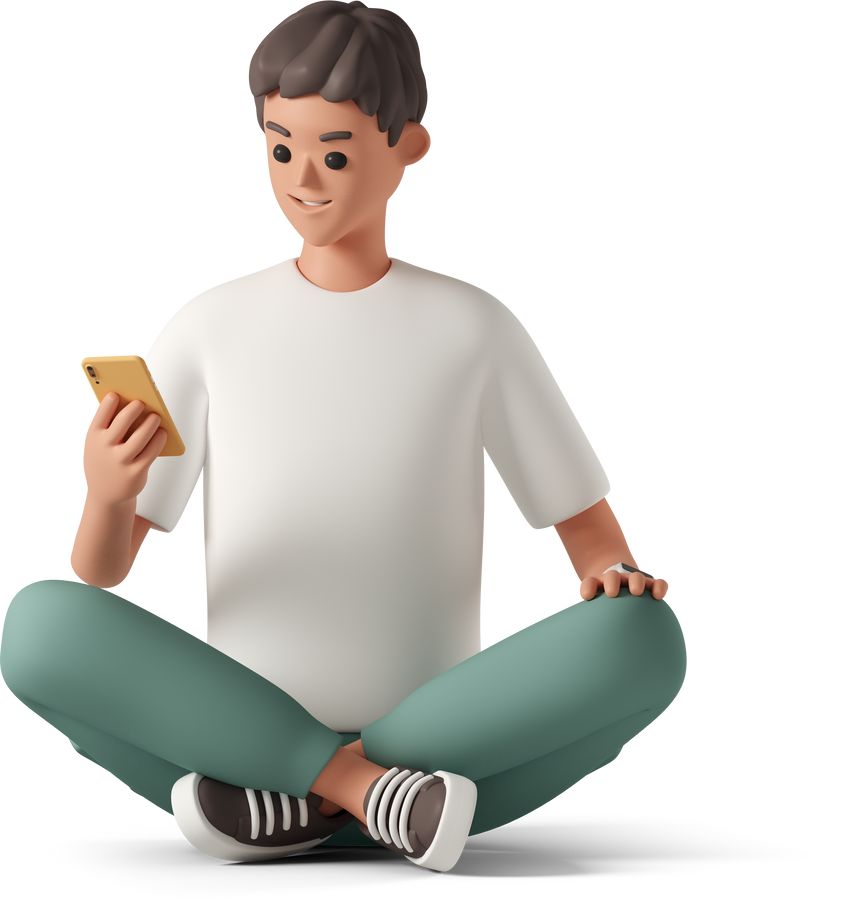
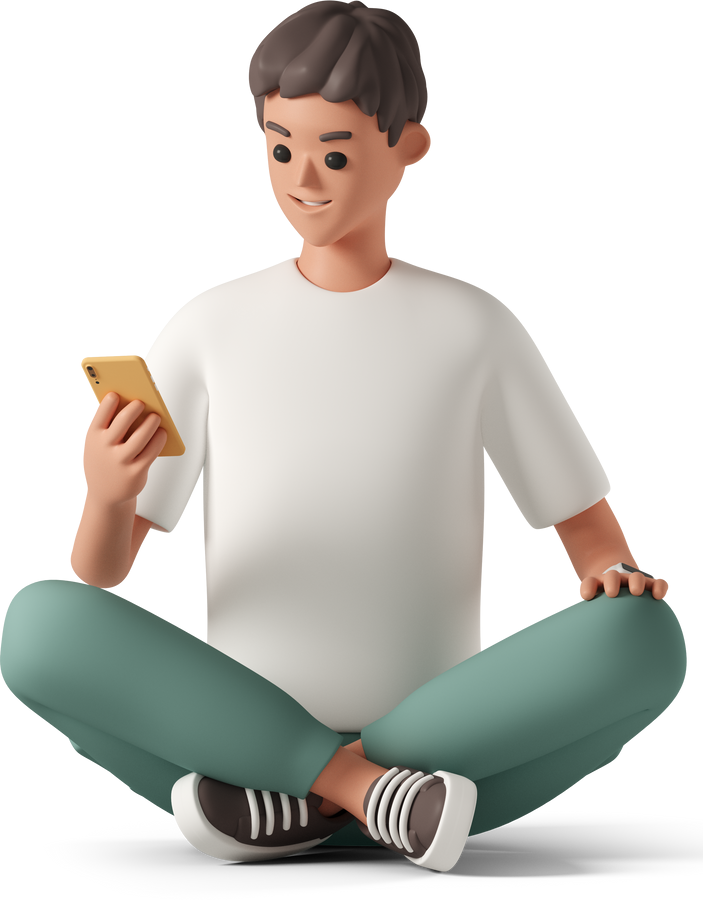
Login carousel

diff --git a/src/pages/auth/components/LeftBanners.jsx b/src/pages/auth/components/LeftBanners.jsx
@@ -1,10 +1,11 @@
-import { Box, Grid, Hidden } from "@mui/material";
+import { Box, Grid, Hidden, Stack, Typography } from "@mui/material";
 import React from "react";
-import { COLORS } from "../../../utils/constants";
+import { CAROUSEL_ITEMS, COLORS } from "../../../utils/constants";
 
 import dotsb from "../../../Assets/dotsb.png";
 import dotscross from "../../../Assets/dotscross.png";
 import login from "../../../Assets/login.png";
+import { Carousel } from "react-responsive-carousel";
 
 const LeftBanners = () => {
   return (
@@ -18,7 +19,6 @@ const LeftBanners = () => {
           justifyContent: "center",
           alignItems: "center",
           position: "relative",
-          padding: "20px",
           overflow: "hidden",
           backgroundColor: COLORS["PRIMARY"],
         }}
@@ -35,7 +35,46 @@ const LeftBanners = () => {
         >
           <img src={dotscross} alt={"dotswhite"} width="400px" />
         </Box>
-        <img src={login} alt={"login_image"} width="70%" />
+        <Carousel
+          autoPlay
+          emulateTouch
+          infiniteLoop
+          showArrows={false}
+          showThumbs={false}
+          showStatus={false}
+        >
+          {CAROUSEL_ITEMS.map((slide) => {
+            const { id, alt, text, imageUrl } = slide;
+            return (
+              <Stack
+                spacing={2}
+                justifyContent="center"
+                alignItems="center"
+                key={id}
+                sx={{
+                  width: "100%",
+                  height: "100dvh",
+                }}
+              >
+                <Box sx={{ minWidth: "50%",maxWidth: "50%" }}>
+                  <img
+                    src={imageUrl}
+                    alt={alt}
+                    style={{ objectFit: "contain", width: "100%" }}
+                  />
+                </Box>
+                <Typography
+                  variant="caption"
+                  sx={{
+                    color: "white",
+                  }}
+                >
+                  {text}
+                </Typography>
+              </Stack>
+            );
+          })}
+        </Carousel>
         <Box
           sx={{
             overflow: "hidden",

diff --git a/src/utils/constants.js b/src/utils/constants.js
@@ -1,3 +1,8 @@
+import Login from "../../src/Assets/login.png";
+import BoyWithTasks from "../../src/Assets/boywithtasks.png";
+import BoyWithPhone from "../../src/Assets/boyphone.png";
+import GroupTasks from "../../src/Assets/grouptasks.png";
+import ManWithPhone from "../../src/Assets/manwithphone.png";
 const constants = {
   BASE_URL: process.env.REACT_APP_BACKEND_URL,
   DEBOUNCE_DELAY: 300,
@@ -138,4 +143,37 @@ export const getTaskFormSchema = () => {
     },
   ];
 };
+
+export const CAROUSEL_ITEMS = [
+  {
+    id: 1,
+    alt: "Boy with laptop",
+    text: "Login with you credentials and track your tasks more effectively",
+    imageUrl: Login,
+  },
+  {
+    id: 2,
+    alt: "Boy with laptop in his hand showing tasks",
+    text: "Track Task Progress and Achievements",
+    imageUrl: BoyWithTasks,
+  },
+  {
+    id: 3,
+    alt: "Boy with phone",
+    text: "Manage tasks anywhere, anytime with responsive design",
+    imageUrl: BoyWithPhone,
+  },
+  {
+    id: 4,
+    alt: "Girl with phone",
+    text: "Collaborative Task Sharing for Teamwork",
+    imageUrl: GroupTasks,
+  },
+  {
+    id: 5,
+    alt: "Man with phone",
+    text: "Able to copy all the completed tasks and paste in emails ",
+    imageUrl: ManWithPhone,
+  },
+];
 export const { BASE_URL, DEBOUNCE_DELAY, DUMMY_AVATAR_URL } = constants;

diff --git a/src/theme/index.js b/src/theme/index.js
@@ -58,6 +58,15 @@ export const getTheme = (mode) => {
         defaultProps: {
           size: "small",
         },
+        styleOverrides: {
+          root: {
+            '&:hover': {
+              '& fieldset': {
+                borderColor: '#ccc !important', // Set the border width to 1px on hover
+              },
+            },
+          },
+        },
       },
       MuiCard: {
         styleOverrides: {

diff --git a/src/components/PasswordFieldOutlined.jsx b/src/components/PasswordFieldOutlined.jsx
@@ -25,8 +25,10 @@ const PasswordFieldOutlined = (props) => {
         onChange={onChange}
         sx={{
           borderRadius: "8px",
-          paddingTop: "4px",
-          paddingBottom: "4px",
+          paddingTop: "2px",
+          paddingBottom: "2px",
+          fontSize: "14px",
+          outline: "none !important",
         }}
         endAdornment={
           <InputAdornment position="end">

diff --git a/src/index.js b/src/index.js
@@ -6,6 +6,7 @@ import App from "./App";
 import "./index.css";
 import { store } from "./redux/store";
 import reportWebVitals from "./reportWebVitals";
+import "react-responsive-carousel/lib/styles/carousel.min.css"; // requires a loader
 import * as serviceWorkerRegistration from "./serviceWorkerRegistration";
 
 const root = ReactDOM.createRoot(document.getElementById('root'));

diff --git a/src/components/TextFieldOutlined.jsx b/src/components/TextFieldOutlined.jsx
@@ -11,7 +11,7 @@ const TextFieldOutlined = (props) => {
         name={name}
         value={value}
         onChange={onChange}
-        sx={{ borderRadius: "8px", padding: "4px 0px" }}
+        sx={{ borderRadius: "8px", padding: "2px 0px", fontSize: "14px" }}
       />
     </Box>
   );
